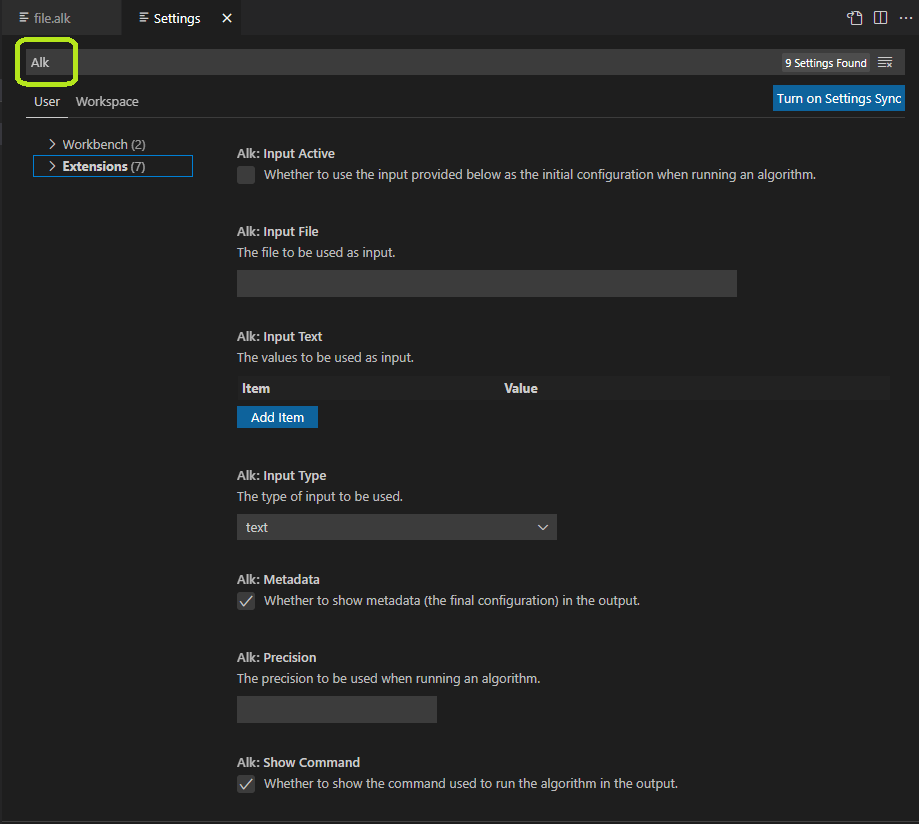
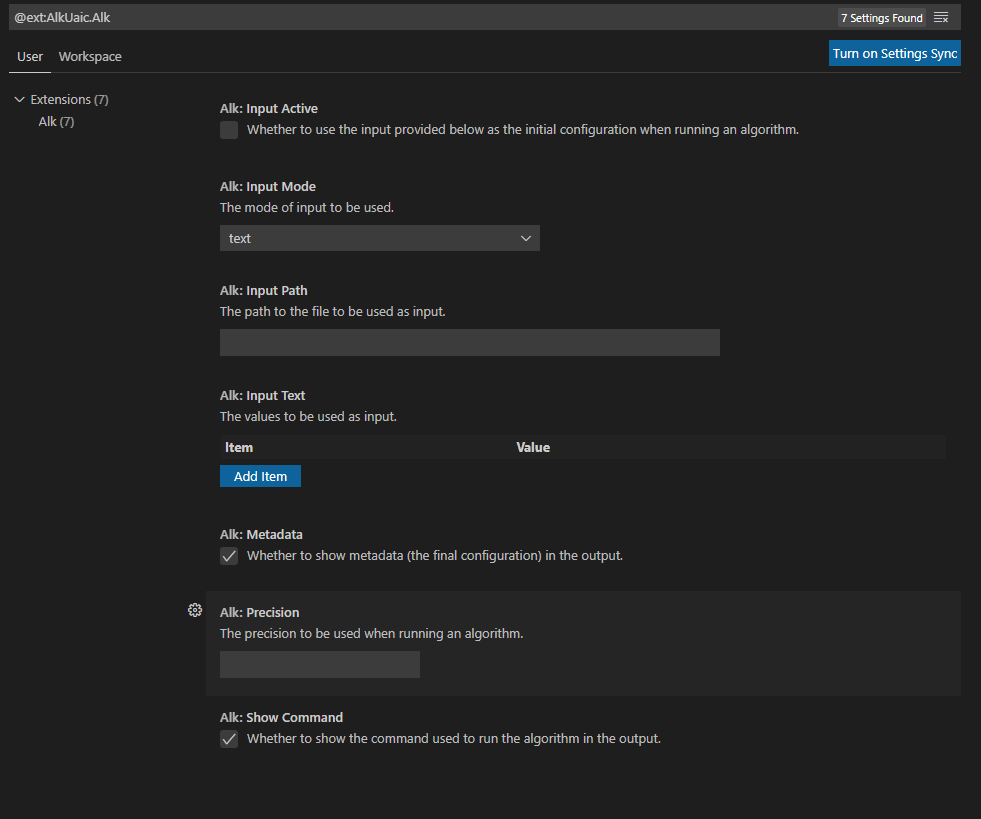
Updated order of settings

diff --git a/README.md b/README.md
@@ -22,14 +22,11 @@ Extension for the `Alk` programming language. Right now, the following features 
   </br></br></br>
   * The settings of `Alk` can be accessed using the `Alk Settings` options from the `Alk` submenu when right clicking.
   ![run](/media/pics/settings-click.png)
-  * They can also be accessed by using the `Command Pallete` (default keybind `Ctrl+Shift+P`) and searching for `settings`. </br>
-  ![run](/media/pics/settings.png)
-  </br></br> Then searching for `alk` to easily find the options.</br>
   ![run](/media/pics/alk-settings.png)
   * The `Input` options allow the use as input of either of file or a configuration directly written in the interface. The `Input Active` option must be checked to use custom input.
-  </br></br> To create input directly from the interface first the `text` option must be choosen in `Input Type`, and then key-value pairs can be added, removed and modified in the `Input Text` setting.</br>
+  </br></br> To create input directly from the interface first the `text` option must be choosen in `Input Mode`, and then key-value pairs can be added, removed and modified in the `Input Text` setting.</br>
   ![run](/media/pics/input-act.png)
-  </br></br>To use a file as input first the `file` option must be choosen in `Input Type`, and then the name of the file must be entered in the `Input File` setting.</br>
+  </br></br>To use a file as input first the `file` option must be choosen in `Input Mode`, and then the name of the file must be entered in the `Input Path` setting.</br>
   ![run](/media/pics/input-file.png)
 
   ## Useful links
